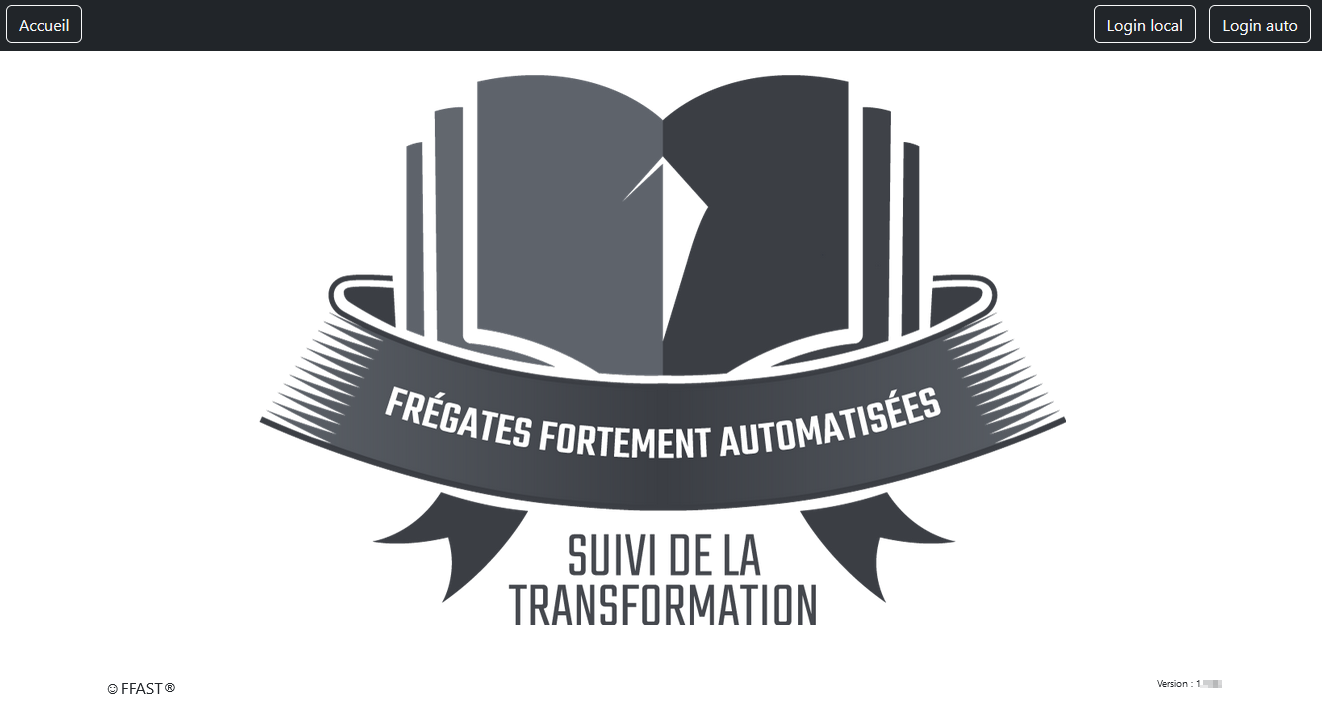
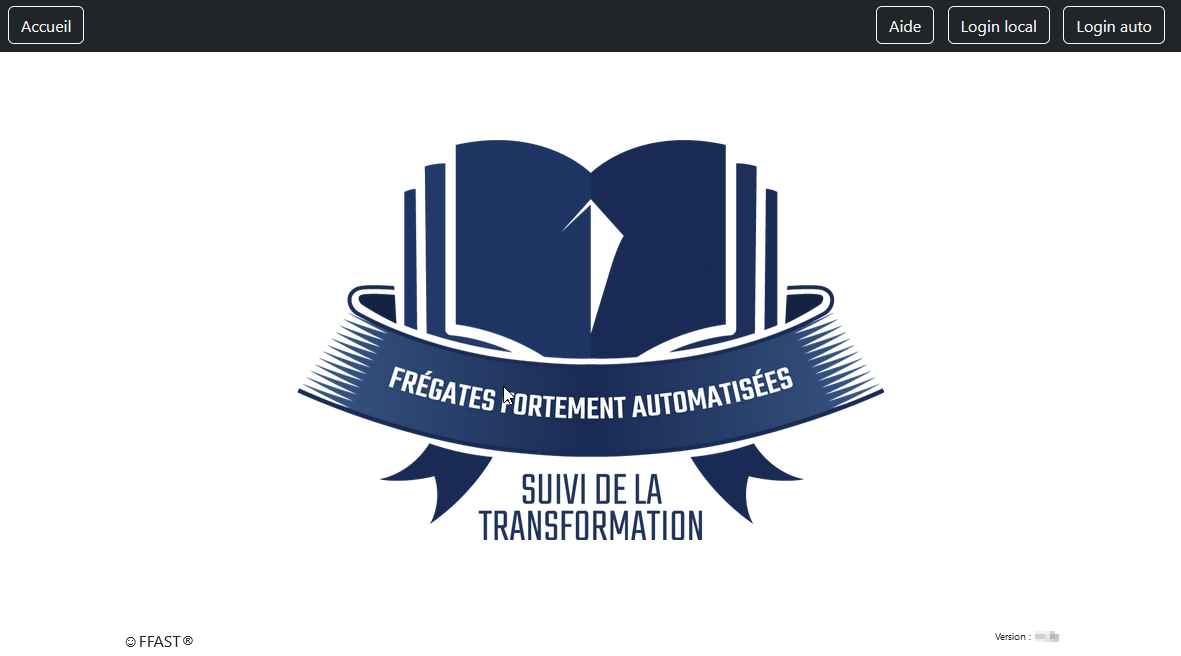
ajout/modif doc pour mot de passe local

Changed region(s): [[0.0, 0.0, 1.0, 0.9146], [0.061, 0.9756, 0.1524, 1.0], [0.8535, 0.9451, 0.9145, 0.9756]]

diff --git a/resources/views/layouts/partials/navbar.blade.php b/resources/views/layouts/partials/navbar.blade.php
@@ -1,4 +1,10 @@
-@if (env('APP_ENV') == 'dev')
+@section('helplink')
+  <x-documentation-link page="connexion"/>
+@endsection
+
+
+
+@if (env('APP_ENV') != 'dev')
   <nav class="navbar navbar-expand-lg navbar-light sticky-top " style="background-color: rebeccapurple;">
 @else
   <nav class="navbar navbar-expand-lg navbar-light bg-dark sticky-top ">
@@ -98,15 +104,14 @@
             <a href="{{ route('impersonate.leave') }}" class="btn btn-outline-danger me-2">Redevenir soit meme</a>
 	      @endImpersonating
         
+        <button class='btn btn-warning' onclick='affichage("bugreport");'> Signaler un problème</button> 
         
-      
         <div class="dropdown">
           <button class="btn btn-dark dropdown-toggle w-100" type="button" id="dropdownMenuButton" data-bs-toggle="dropdown" aria-haspopup="true" aria-expanded="false">
           {{ auth()->user()->display_name }}
           </button>
           <div class="dropdown-menu" style="position:absolute;right:0; left:auto;" aria-labelledby="dropdownMenuButton">
             @yield('helplink')
-             <button class='dropdown-item' onclick='affichage("bugreport");'><!--&#9888;-->  Signaler un problème</button> 
             <a class="dropdown-item" href="{{ route('changepasswd.show', auth()->user()) }}">Changer mot de passe</a>
             <a class="dropdown-item" href="{{ route('logout.perform') }}" class="btn btn-outline-light me-2">Déconnexion</a>
             <hr>
@@ -117,6 +122,7 @@
 
       @guest
         <div class="text-end">
+          <span class="btn btn-outline-light me-2">@yield('helplink')</span>
           <a href="{{ route('login.show') }}" class="btn btn-outline-light me-2">Login local</a>
           <a href="{{ route('keycloak.login.redirect') }}" class="btn btn-outline-light me-2">Login auto</a>
         </div>

diff --git a/resources/views/home/index.blade.php b/resources/views/home/index.blade.php
@@ -41,13 +41,14 @@
             @endforeach
             </div>
     @else
-        <div>&nbsp;</div>
-        <div>
-            <img src='{!! asset("assets/images/logo_FFAST.png") !!}' alt="Logo" style="height:500px; display: block; margin-left:auto; margin-right: auto; ">
+        <div style="display: flex; flex-direction:column; justify-content:space-between; min-height:90vh;">
+            <div></div>
+            <div>
+                <img src='{!! asset("assets/images/logo_FFAST_bleu.png") !!}' alt="Logo" style="height:400px; display: block; margin-left:auto; margin-right: auto; ">
+            </div>
+            <footer style="display:flex;justify-content:space-between;"><span>&#9786;FFAST&#xAE;</span><span style="font-size:x-small;">Version : {{env('APP_VERSION')}}</span></footer>
         </div>
-        <div style="height: 50px;">&nbsp;</div>
-        <footer style="display:flex;justify-content:space-between;"><span>&#9786;FFAST&#xAE;</span><span style="font-size:x-small;">Version : {{env('APP_VERSION')}}</span></footer>
-    @endif
+        @endif
 
 @endsection
 

diff --git a/resources/views/auth/comebacklater.blade.php b/resources/views/auth/comebacklater.blade.php
@@ -3,9 +3,9 @@
 
 @section('content')
     <div>
-        <img src='{!! asset("assets/images/InsigneEscouade.jpg") !!}' alt="Logo de l'escouade" style="height:450px; display: block; margin-left:auto; margin-right: auto; ">
+        <img src='{!! asset("assets/images/logo_FFAST_bleu.png") !!}' alt="Logo de l'escouade" style="height:250px; display: block; margin-left:auto; margin-right: auto; ">
     </div>
     <div class="bg-light p-4 rounded" style="max-width: 400px; margin-left:auto; margin-right: auto;">
-    Demande enregistrée. Votre compte doit être validé par un administrateur. Veuillez reessayer ultérieurement.
+    Demande enregistrée. Votre compte doit être validé par un administrateur. Vous recevrez un mail lorque votre pourrez vous connecter.
     </div>
 @endsection

diff --git a/resources/views/auth/login.blade.php b/resources/views/auth/login.blade.php
@@ -2,9 +2,10 @@
 
 
 @section('content')
-    <div>
-        <img src='{!! asset("assets/images/InsigneEscouade.jpg") !!}' alt="Logo de l'escouade" style="height:450px; display: block; margin-left:auto; margin-right: auto; ">
+    <div style="margin-top:1.5rem;">
+        <img src='{!! asset("assets/images/logo_FFAST_bleu.png") !!}' alt="Logo FFAST" style="height:250px; display: block; margin-left:auto; margin-right: auto; ">
     </div>
+    <div>&nbsp;</div>
     <div class="bg-light p-4 rounded" style="max-width: 400px; margin-left:auto; margin-right: auto;">
     <form method="post" action="{{ route('login.perform') }}">
         

diff --git a/resources/views/components/documentation-link.blade.php b/resources/views/components/documentation-link.blade.php
@@ -1,4 +1,3 @@
 <div>
    <a href="{{ route('larecipe.show', ['version' => $version, 'page' => $page]) }}" class="dropdown-item" >Aide</a>
-      <!-- <img src='{!! asset("assets/images/Question_mark.svg") !!}' style="height:40px;"> -->
 </div>

diff --git a/resources/docs/1.0/generalites.md b/resources/docs/1.0/generalites.md
@@ -75,15 +75,15 @@ Ce principe est également appliqué dans tous les écrans de l'application: si 
   - Statistiques : tableaux récapitulatifs des taux de transformation des marins.
 2. Le nom de l’utilisateur connecté est aussi un menu qui permet d'accéder à :
   - Aide : consulter la documentation en ligne correspondant à la page depuis laquelle il clique sur le lien.
-  - Signaler un problème : envoyer un message (en décrivant le plus précisément possible le problème rencontré) à l'équipe d'administration technique qui s'efforcera de l'aider ou de résoudre le problème.
   - Changer de mot de passe : changer le mot de passe d'accès à l'application en mode local.
   - Déconnexion : quitter l'application.
 
-** Remarque : ** les menus 1 et 2 sont accessibles depuis n’importe quel écran de l’application.
+<u>Remarques</u> : 
+  - les menus 1 et 2 sont accessibles depuis n’importe quel écran de l’application.
+  - le bouton "Signaler un problème" permet d'envoyer un message (en décrivant le plus précisément possible le problème rencontré) à l'équipe d'administration technique qui s'efforcera de l'aider ou de résoudre le problème.
 
 
-> {info} Retrouvez dans le menu "Nom" (2) :
-> - le bouton d'aide qui permet à l'utilisateur de rejoindre la page de documentation en ligne correspondant à la page depuis laquelle il clique sur le lien.
-> - le bouton "Signaler un problème" qui permet à l'utilisateur de faire part de ses remarques ou de ses difficultés à l'équipe d'administration technique qui s'efforcera de l'aider ou de résoudre le problème.
+> {info} Retrouvez dans le menu "Nom" (2) le bouton d'aide qui permet à l'utilisateur de rejoindre la page de documentation en ligne correspondant à la page depuis laquelle il clique sur le lien.
+
 
 

diff --git a/resources/docs/1.0/index.md b/resources/docs/1.0/index.md
@@ -1,5 +1,6 @@
 - ## Rubriques 
     - [Généralités](/{{route}}/{{version}}/generalites)
+    - [Connexion](/{{route}}/{{version}}/connexion)
     - [Administration](/{{route}}/{{version}}/administration)
     - [Parcours](/{{route}}/{{version}}/parcours)
     - [Transformation](/{{route}}/{{version}}/transformation)
